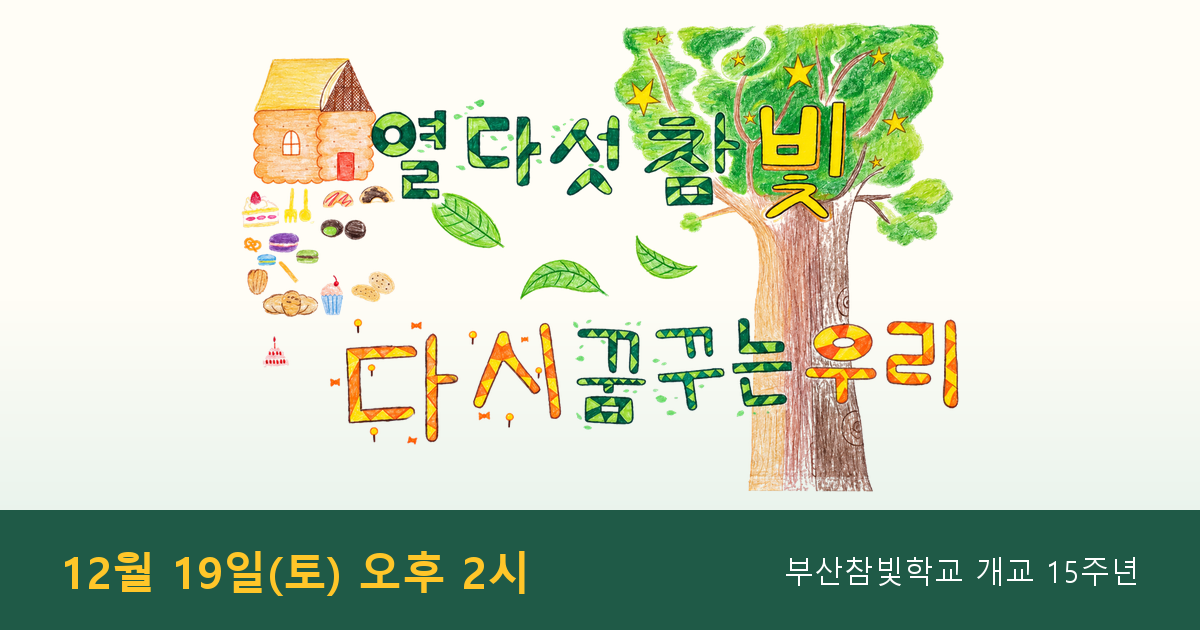
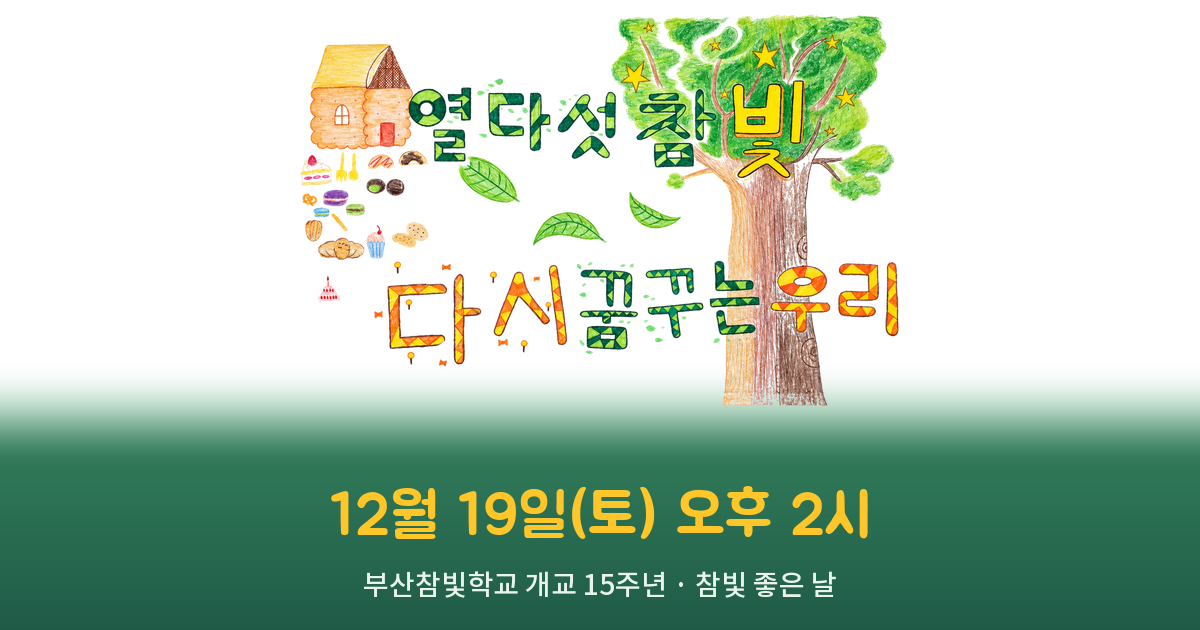
New share thumbnail matching the hero gradient
그림 아래 자연스러운 그라데이션, 가운데 정렬 주아체 날짜. og:image 주소에 ?v=2를 붙여 미리보기 캐시를 새로 받게 함

diff --git a/index.html b/index.html
@@ -1,4 +1,4 @@
-<!doctype html><html lang="ko"><head><meta charset="utf-8"><meta name="viewport" content="width=device-width,initial-scale=1,viewport-fit=cover"><meta name="description" content="부산참빛학교 개교 15주년 · 2026년 12월 19일(토) 오후 2시, 화명 새마을금고 대천지점 강당에서 참빛가족이 다시 모입니다."><meta property="og:type" content="website"><meta property="og:url" content="https://truelight-web.github.io/truelight-website/"><meta property="og:title" content="참빛 좋은 날 · 부산참빛학교 개교 15주년"><meta property="og:description" content="12월 19일(토) 오후 2시, 참빛가족이 다시 모입니다. 참석 여부를 알려주세요."><meta property="og:image" content="https://truelight-web.github.io/truelight-website/og.png"><meta property="og:image:width" content="1200"><meta property="og:image:height" content="630"><meta name="twitter:card" content="summary_large_image"></head><body><title>참빛 좋은 날 초대장</title>
+<!doctype html><html lang="ko"><head><meta charset="utf-8"><meta name="viewport" content="width=device-width,initial-scale=1,viewport-fit=cover"><meta name="description" content="부산참빛학교 개교 15주년 · 2026년 12월 19일(토) 오후 2시, 화명 새마을금고 대천지점 강당에서 참빛가족이 다시 모입니다."><meta property="og:type" content="website"><meta property="og:url" content="https://truelight-web.github.io/truelight-website/"><meta property="og:title" content="참빛 좋은 날 · 부산참빛학교 개교 15주년"><meta property="og:description" content="12월 19일(토) 오후 2시, 참빛가족이 다시 모입니다. 참석 여부를 알려주세요."><meta property="og:image" content="https://truelight-web.github.io/truelight-website/og.png?v=2"><meta property="og:image:width" content="1200"><meta property="og:image:height" content="630"><meta name="twitter:card" content="summary_large_image"></head><body><title>참빛 좋은 날 초대장</title>
 <link rel="stylesheet" href="https://fonts.googleapis.com/css2?family=Jua&family=Noto+Sans+KR:wght@400;500;700;800&display=swap">
 <style>
 /* Layout: one phone-width column (max 480px) — hero with kids' banner over a mint→forest gradient, then stacked info cards on cream. */
